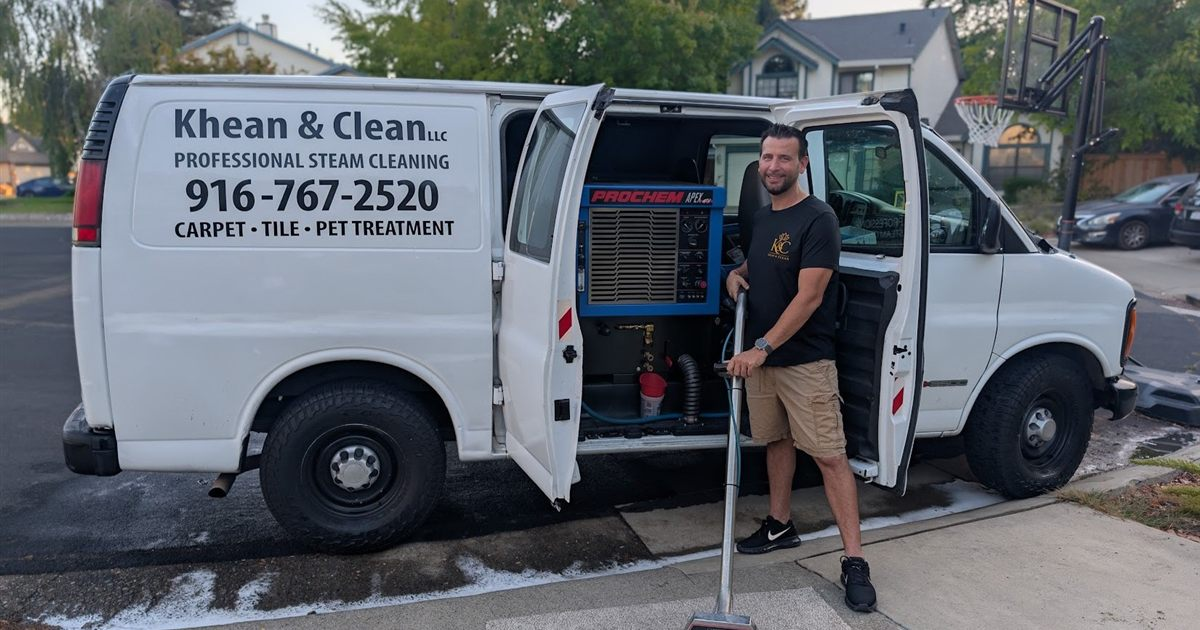
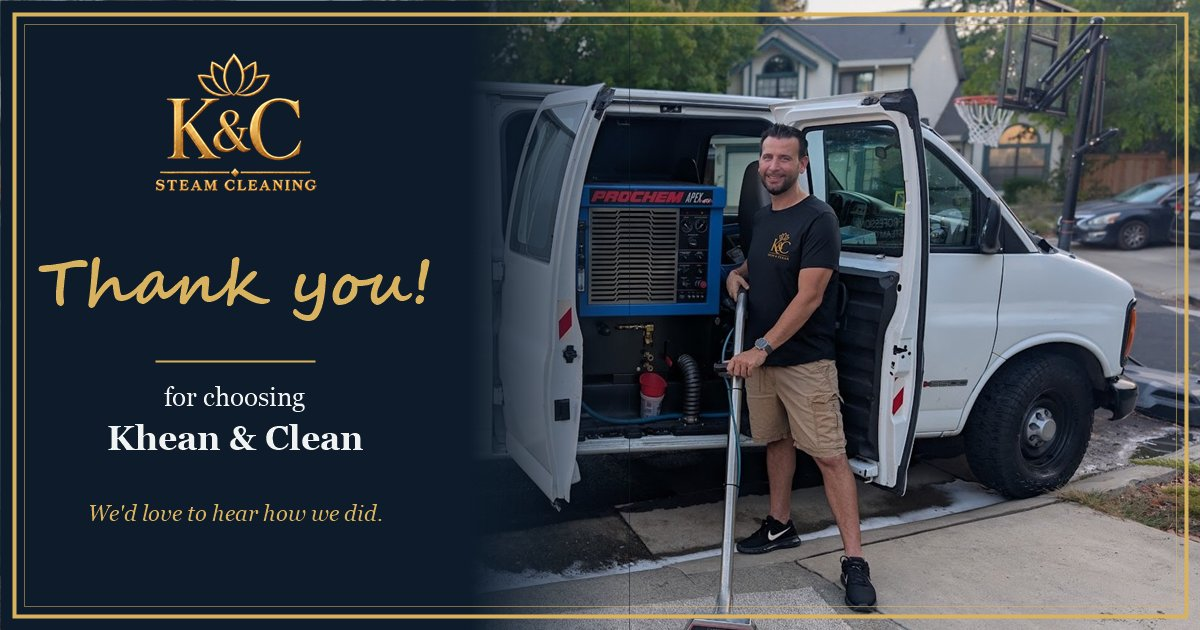
Review link preview: thank-you card
Claude-Session: https://claude.ai/code/session_01TCxpxt8dnUYiQujA8LdYkM

diff --git a/review.html b/review.html
@@ -1,4 +1,4 @@
-<!doctype html>
+<!doctype html>
 <html lang="en">
 <head>
 <meta charset="utf-8">
@@ -13,11 +13,11 @@
 <meta property="og:title" content="How did we do? Leave Khean &amp; Clean a review">
 <meta property="og:description" content="Thanks for choosing Khean &amp; Clean! It only takes a minute.">
 <meta property="og:url" content="https://kheanandclean.com/review">
-<meta property="og:image" content="https://kheanandclean.com/images/review-share.jpg">
+<meta property="og:image" content="https://kheanandclean.com/images/review-share.jpg?v=2">
 <meta property="og:image:width" content="1200">
 <meta property="og:image:height" content="630">
 <meta name="twitter:card" content="summary_large_image">
-<meta name="twitter:image" content="https://kheanandclean.com/images/review-share.jpg">
+<meta name="twitter:image" content="https://kheanandclean.com/images/review-share.jpg?v=2">
 <meta name="robots" content="noindex">
 <meta http-equiv="refresh" content="0; url=https://search.google.com/local/writereview?placeid=ChIJQYCF7rz6G28Rz26F-dKHzOM">
 <script>location.replace("https://search.google.com/local/writereview?placeid=ChIJQYCF7rz6G28Rz26F-dKHzOM");</script>
